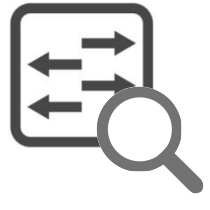
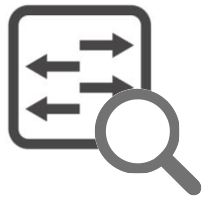
adjust image for nettap and adding selected decorator

diff --git a/mnsec/api_server.py b/mnsec/api_server.py
@@ -307,6 +307,15 @@ class APIServer:
                     'text-valign': 'top',
                 }
             },
+            {
+                'selector': ':selected',
+                'style': {
+                  'background-color': 'SteelBlue',
+                  'line-color': 'black',
+                  'target-arrow-color': 'black',
+                  'source-arrow-color': 'black'
+                }
+            },
         ]
 
         self.app.layout = html.Div([
